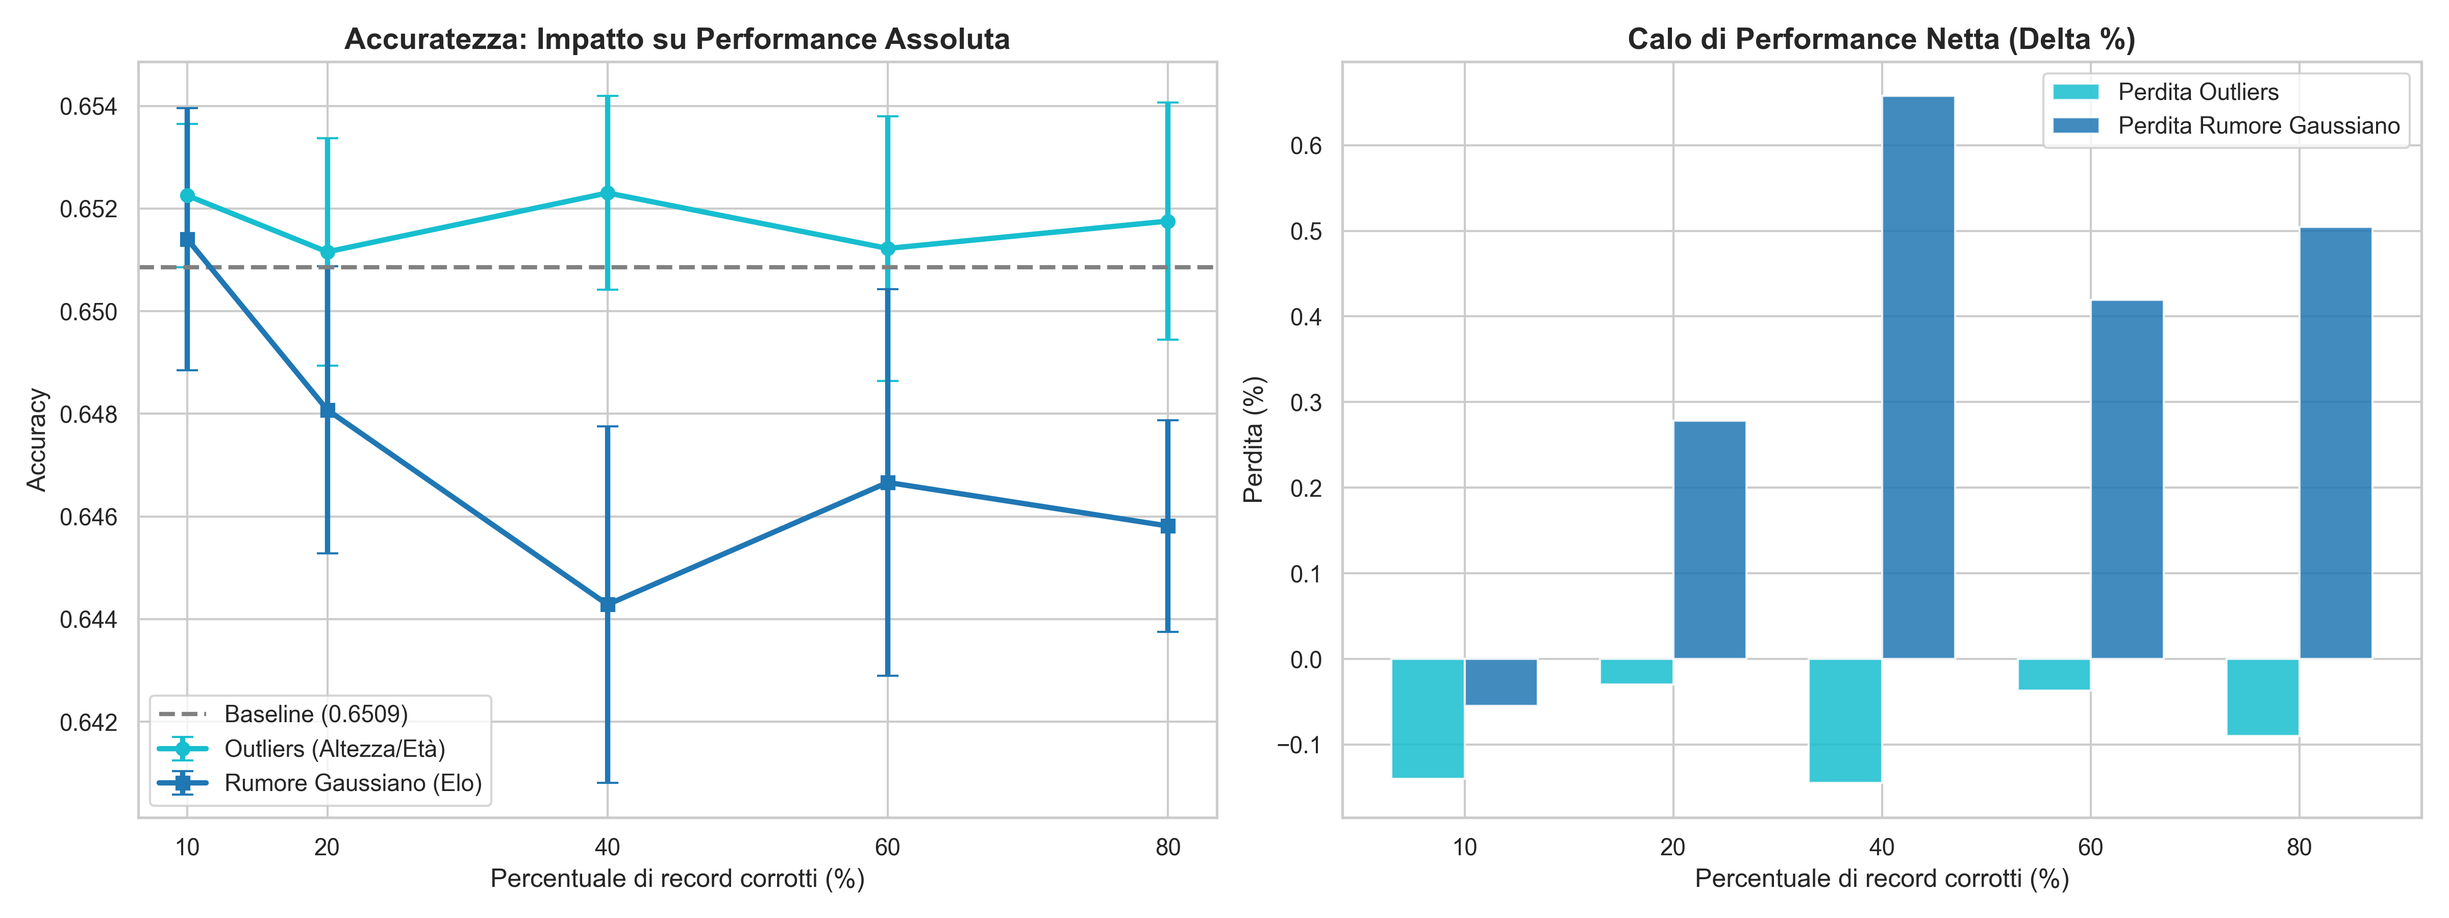
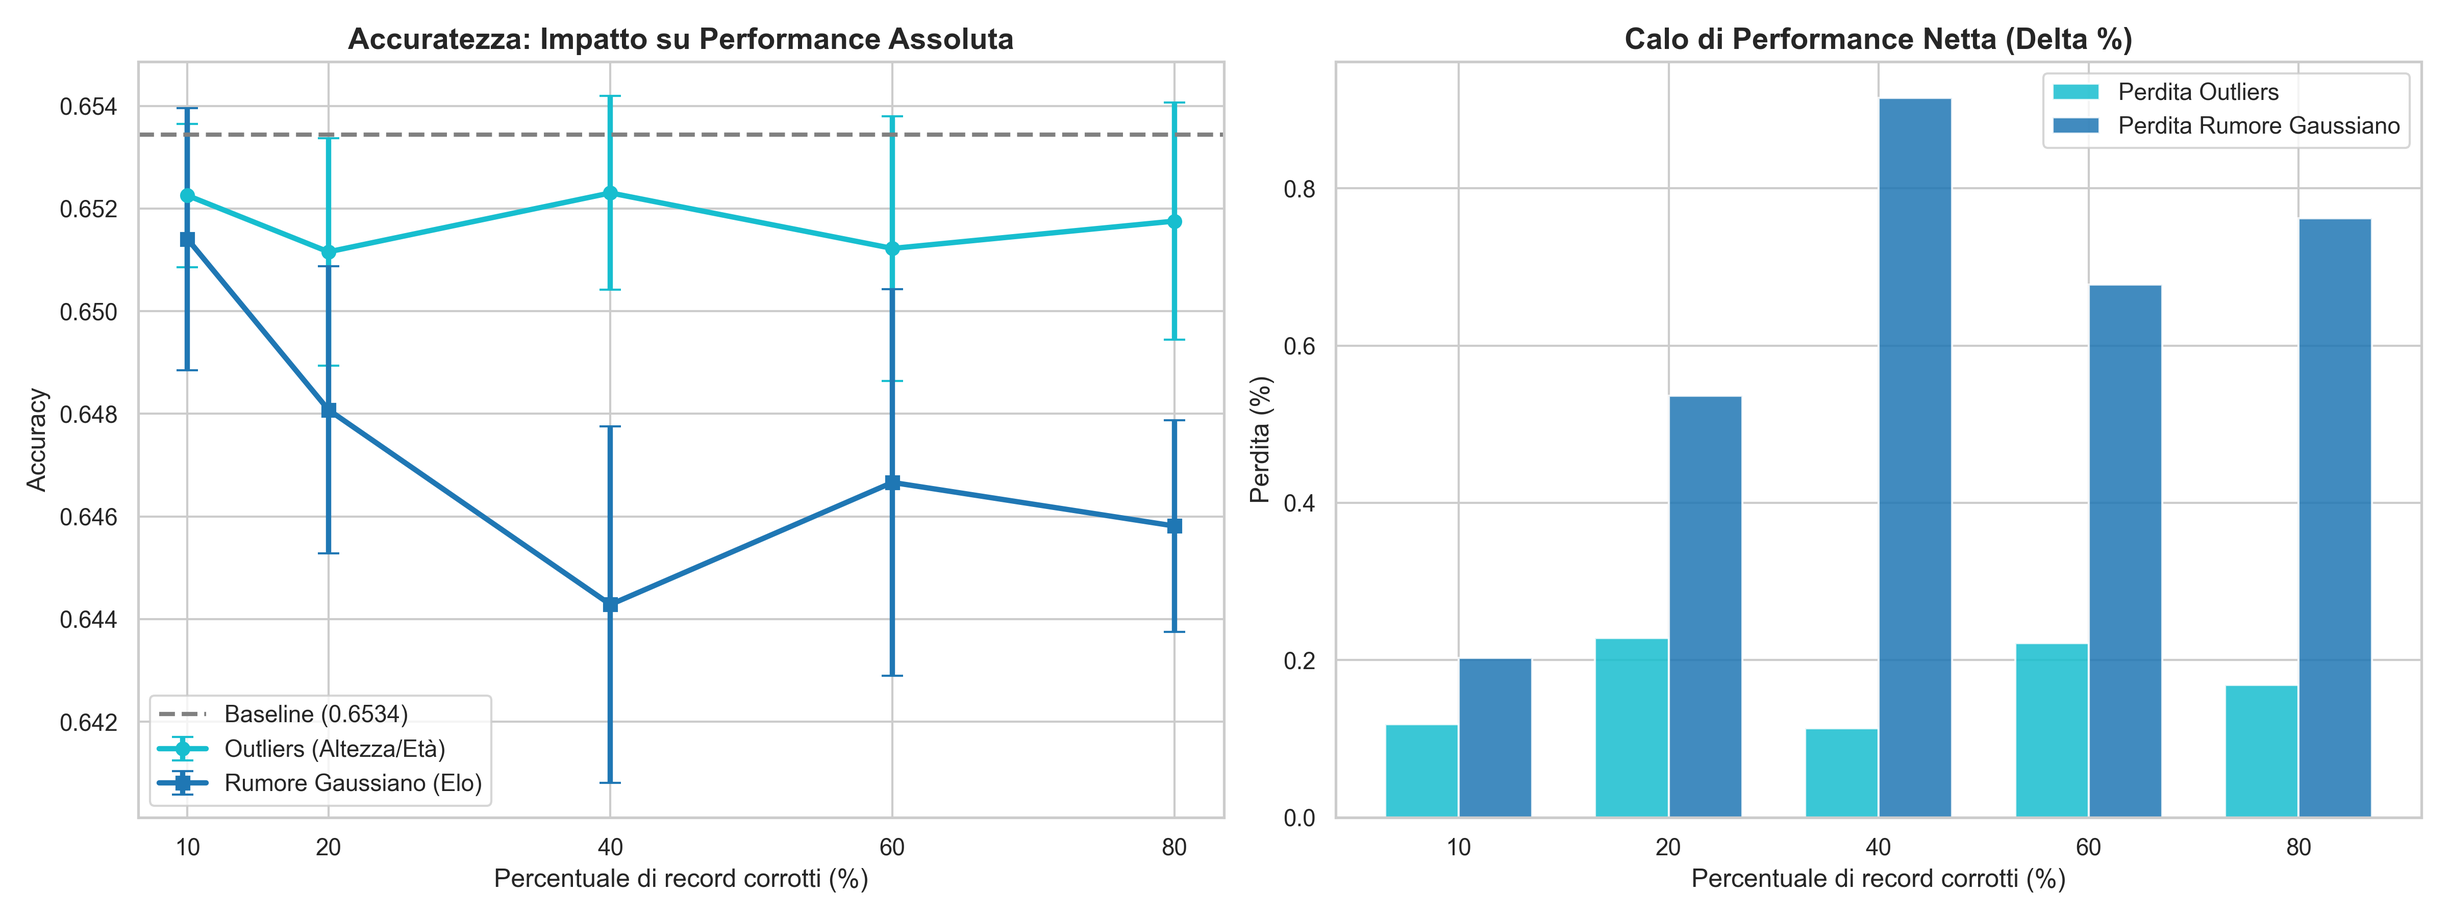
baseline 10 run + modifiche minori

diff --git a/src/baseline_data_quality.py b/src/baseline_data_quality.py
@@ -5,10 +5,8 @@ import pandas as pd
 import numpy as np
 from sklearn.neural_network import MLPClassifier
 from sklearn.preprocessing import StandardScaler
-from sklearn.metrics import accuracy_score,confusion_matrix
+from sklearn.metrics import accuracy_score, confusion_matrix
 import warnings
-
-
 
 warnings.filterwarnings('ignore')
 
@@ -53,9 +51,9 @@ def train_and_evaluate_mlp(X_train, y_train, X_test, y_test, return_model=False)
     X_train_model = X_train[FEATURES] if 'p1_id' in X_train.columns else X_train
     X_test_model = X_test[FEATURES] if 'p1_id' in X_test.columns else X_test
     
-    scaler = StandardScaler()
     X_train_scaled = scaler.fit_transform(X_train_model)
     X_test_scaled = scaler.transform(X_test_model)
+    
     mlp = MLPClassifier(
         hidden_layer_sizes=(128, 128, 64, 32),
         activation='relu',
@@ -94,70 +92,88 @@ def train_and_evaluate_mlp(X_train, y_train, X_test, y_test, return_model=False)
         
     return metrics
 
-def get_or_compute_baseline(dataset_path):
+def get_or_compute_baseline(dataset_path, n_runs=10):
     """
-    Gestisce la persistenza della baseline su disco usando un file JSON.
-    Salva tutte le metriche avanzate (accuratezza, confidenza, tempi, CM, loss curve).
+    Gestisce la persistenza della baseline su disco usando un file JSON (salvato in 'results').
+    Esegue l'addestramento n_runs volte per calcolare una media robusta delle metriche.
     """
     base_dir = os.path.dirname(os.path.abspath(__file__))
-    cache_path = os.path.join(base_dir, "baseline_metrics.json")
+    results_dir = os.path.join(base_dir, "..", "results")
+    os.makedirs(results_dir, exist_ok=True)
+    
+    cache_path = os.path.join(results_dir, "baseline_metrics.json")
     
     if os.path.exists(cache_path):
         with open(cache_path, "r") as f:
             data = json.load(f)
         return data["accuracy"]
     
-    print("Calcolo della Baseline e salvataggio delle metriche di addestramento...")
+    print(f"Calcolo della Baseline su {n_runs} run indipendenti per stabilità statistica...")
     X_train, y_train, X_test, y_test = get_train_test_split(dataset_path)
     
-    # ESTRAIAMO I DATI DAL DIZIONARIO
-    metrics = train_and_evaluate_mlp(X_train, y_train, X_test, y_test, return_model=True)
-    mlp = metrics['mlp']
+    runs_data = []
     
-    # Struttura dei metadati da salvare COMPLETA
+    # Eseguiamo n_runs per fare la media
+    for i in range(n_runs):
+        print(f"  -> Esecuzione run {i+1}/{n_runs}...")
+        metrics = train_and_evaluate_mlp(X_train, y_train, X_test, y_test, return_model=True)
+        runs_data.append(metrics)
+        
+    # Estraiamo le metriche per fare la media
+    acc_tests = [r['acc_test'] for r in runs_data]
+    acc_trains = [r['acc_train'] for r in runs_data]
+    confidenze = [r['confidenza'] for r in runs_data]
+    tempi = [r['time'] for r in runs_data]
+    
+    mean_acc = np.mean(acc_tests)
+    
+    # Troviamo la run "Mediana" (quella più vicina alla media calcolata) 
+    # per prelevare la matrice di confusione e la loss curve più rappresentative
+    closest_idx = np.argmin(np.abs(np.array(acc_tests) - mean_acc))
+    representative_run = runs_data[closest_idx]
+    representative_mlp = representative_run['mlp']
+    
+    # Struttura dei metadati mediati da salvare
     cache_data = {
-        "accuracy": metrics['acc_test'],
-        "acc_train": metrics['acc_train'],
-        "confidenza": metrics['confidenza'],
-        "time": metrics['time'],
-        "cm": metrics['cm'],
-        "n_iter": int(mlp.n_iter_),
-        "loss_curve": [float(x) for x in mlp.loss_curve_]
+        "accuracy": float(mean_acc),
+        "acc_train": float(np.mean(acc_trains)),
+        "confidenza": float(np.mean(confidenze)),
+        "time": float(np.mean(tempi)),
+        "cm": representative_run['cm'],
+        "n_iter": int(representative_mlp.n_iter_),
+        "loss_curve": [float(x) for x in representative_mlp.loss_curve_]
     }
     
-    # Salviamo il file JSON
+    # Salviamo il file JSON nella cartella results
     with open(cache_path, "w") as f:
         json.dump(cache_data, f, indent=4)
         
-    return metrics['acc_test']
-
+    print(f"Baseline calcolata e salvata con successo in: {cache_path}")
+    return cache_data['accuracy']
 
 def load_baseline_cache():
     """
-    Funzione helper per caricare l'intero dizionario delle metriche salvate in cache.
+    Funzione helper per caricare l'intero dizionario delle metriche salvate in cache dalla cartella results.
     """
     base_dir = os.path.dirname(os.path.abspath(__file__))
-    cache_path = os.path.join(base_dir, "baseline_metrics.json")
+    cache_path = os.path.join(base_dir, "..", "results", "baseline_metrics.json")
     
     if os.path.exists(cache_path):
         with open(cache_path, "r") as f:
             return json.load(f)
     return None
 
-
-
 # ESECUZIONE PRINCIPALE
-
 if __name__ == "__main__":
     print("-- INIZIO PIPELINE DATA QUALITY --")
     
     # Calcolo dinamico del path rispetto alla posizione dello script (cartella 'src')
     base_folder = os.path.dirname(os.path.abspath(__file__))
-    dataset_path = os.path.join(base_folder, "..", "data","clean", "dataset_ml_ready.csv") 
+    dataset_path = os.path.join(base_folder, "..", "data", "clean", "dataset_ml_ready.csv") 
     
     try:
         baseline_acc = get_or_compute_baseline(dataset_path)
-        print(f"\nAccuracy Baseline = {baseline_acc:.4f}")
+        print(f"\nAccuracy Media Baseline = {baseline_acc:.4f}")
         
     except FileNotFoundError:
         print(f"\nERRORE: file {dataset_path} non trovato")

diff --git a/src/plot_completezza.py b/src/plot_completezza.py
@@ -14,7 +14,7 @@ plots_dir = os.path.join(results_dir, "plots")
 os.makedirs(plots_dir, exist_ok=True) 
 
 path_json = os.path.join(results_dir, "risultati_completezza.json")
-path_json_base = os.path.join(src_dir, "baseline_metrics.json")
+path_json_base = os.path.join(results_dir, "baseline_metrics.json")
 
 if not os.path.exists(path_json):
     print(f"[ERRORE] File dei dati non trovato in: {path_json}")
@@ -35,12 +35,13 @@ with open(path_json, "r") as f:
 with open(path_json_base, "r") as f:
     dati_base = json.load(f)
 
-baseline_acc = dati["baseline_acc"]
+baseline_acc = dati_base["accuracy"]
 cm_baseline = dati_base["cm"] # Matrice di confusione base (0%)
-
+baseline_conf = dati_base["confidenza"] * 100
 percentuali = dati["percentuali"]
 perc_labels = [int(p * 100) for p in percentuali]
 risultati = dati["risultati"]
+baseline_time = dati_base["time"]
 
 sns.set_theme(style="whitegrid")
 
@@ -50,7 +51,7 @@ sns.set_theme(style="whitegrid")
 fig1, axes1 = plt.subplots(1, 2, figsize=(16, 6))
 
 axes1[0].errorbar(perc_labels, risultati['Systemic_Missing']['media'], yerr=risultati['Systemic_Missing']['std'], fmt='-o', label='Blackout (Completezza)', color='#d62728', capsize=5, linewidth=2.5)
-axes1[0].errorbar(perc_labels, risultati['Lag_10']['media'], yerr=risultati['Lag_10']['std'], fmt='-s', label='Lag-25 (Tempestività)', color='#ff7f0e', capsize=5, linewidth=2.5)
+axes1[0].errorbar(perc_labels, risultati['Lag_10']['media'], yerr=risultati['Lag_10']['std'], fmt='-s', label='Lag-10 (Tempestività)', color='#ff7f0e', capsize=5, linewidth=2.5)
 axes1[0].axhline(y=baseline_acc, color='gray', linestyle='--', linewidth=2, label=f'Baseline ({baseline_acc:.4f})')
 axes1[0].set_title('Completezza e Tempestività', fontsize=14, fontweight='bold')
 axes1[0].set_xlabel('Percentuale di record corrotti (%)')
@@ -64,7 +65,7 @@ x = np.arange(len(perc_labels))
 width = 0.35
 
 axes1[1].bar(x - width/2, delta_missing, width, label='Perdita Blackout', color='#d62728', alpha=0.85)
-axes1[1].bar(x + width/2, delta_lag, width, label='Perdita Lag-25', color='#ff7f0e', alpha=0.85)
+axes1[1].bar(x + width/2, delta_lag, width, label='Perdita Lag-10', color='#ff7f0e', alpha=0.85)
 axes1[1].set_title("Calo di Performance Netta (Delta %)", fontsize=14, fontweight='bold')
 axes1[1].set_xlabel('Percentuale di record corrotti (%)')
 axes1[1].set_ylabel('Perdita (%)')
@@ -85,7 +86,7 @@ plt.plot(perc_labels, risultati['Systemic_Missing']['media_train'], label='Train
 plt.plot(perc_labels, risultati['Systemic_Missing']['media'], label='Test (Blackout)', color='#d62728', marker='s', linewidth=2.5)
 plt.fill_between(perc_labels, risultati['Systemic_Missing']['media'], risultati['Systemic_Missing']['media_train'], color='#d62728', alpha=0.15)
 
-# Lag-25
+# Lag-10
 plt.plot(perc_labels, risultati['Lag_10']['media_train'], label='Train (Lag-10)', color='#ffbb78', marker='^', linewidth=2.5, linestyle='--')
 plt.plot(perc_labels, risultati['Lag_10']['media'], label='Test (Lag-10)', color='#ff7f0e', marker='D', linewidth=2.5)
 plt.fill_between(perc_labels, risultati['Lag_10']['media'], risultati['Lag_10']['media_train'], color='#ff7f0e', alpha=0.15)
@@ -102,7 +103,7 @@ plt.savefig(os.path.join(plots_dir, "completezza_02_train_test_gap.png"), dpi=30
 plt.figure(figsize=(10, 5))
 plt.plot(perc_labels, [c * 100 for c in risultati['Systemic_Missing']['confidenza']], label='Blackout', color='#d62728', marker='o', linewidth=2.5)
 plt.plot(perc_labels, [c * 100 for c in risultati['Lag_10']['confidenza']], label='Lag-10', color='#ff7f0e', marker='s', linewidth=2.5)
-plt.axhline(y=70.0, color='gray', linestyle='--', label='Soglia Teorica di Rischio (70%)')
+plt.axhline(y=baseline_conf, color='gray', linestyle='--', label=f'Baseline ({baseline_conf:.2f}%)')
 
 plt.title('Il Crollo delle Certezze: Confidenza Predittiva', fontsize=14, fontweight='bold')
 plt.xlabel('Percentuale di record corrotti (%)')
@@ -116,7 +117,7 @@ plt.savefig(os.path.join(plots_dir, "completezza_03_confidenza.png"), dpi=300)
 plt.figure(figsize=(10, 5))
 plt.plot(perc_labels, risultati['Systemic_Missing']['tempi'], label='Blackout', color='#d62728', marker='o', linewidth=2.5)
 plt.plot(perc_labels, risultati['Lag_10']['tempi'], label='Lag-10', color='#ff7f0e', marker='s', linewidth=2.5)
-
+plt.axhline(y=baseline_time, color='gray', linestyle='--', linewidth=2, label=f'Baseline ({baseline_time:.1f} s)')
 plt.title('Impatto Computazionale: Tempi di Addestramento', fontsize=14, fontweight='bold')
 plt.xlabel('Percentuale di record corrotti (%)')
 plt.ylabel('Tempo impiegato (secondi)')

diff --git a/src/analisi_feature.py b/src/analisi_feature.py
@@ -18,9 +18,7 @@ def calcola_e_plotta_evoluzione(esperimento_nome, prefisso_file, test_clean_X, t
     Legge i CSV sporchi di un esperimento, calcola la Feature Importance 
     per ogni step e genera un grafico a griglia dell'evoluzione dei pesi decisionali.
     """
-    print(f"\n{'='*60}")
-    print(f"🚀 AVVIO ANALISI FEATURE IMPORTANCE: {esperimento_nome}")
-    print(f"{'='*60}")
+    print(f"AVVIO ANALISI FEATURE IMPORTANCE: {esperimento_nome}")
     
     # Setup percorsi
     base_folder = os.path.dirname(os.path.abspath(__file__))
@@ -33,7 +31,7 @@ def calcola_e_plotta_evoluzione(esperimento_nome, prefisso_file, test_clean_X, t
     importanza_per_step = {}
     
     # -------------------------------------
-    # 1. TOP 8 DELLA BASELINE
+    # 1. TOP 8 DELLA BASELINE (DEGRADO 0%)
     # -------------------------------------
     clean_csv = os.path.join(base_folder, "..", "data", "clean", "dataset_ml_ready.csv")
     X_train_clean, y_train_clean, _, _ = get_train_test_split(clean_csv)
@@ -46,8 +44,9 @@ def calcola_e_plotta_evoluzione(esperimento_nome, prefisso_file, test_clean_X, t
     X_test_scaled = scaler_clean.transform(test_clean_X)
     
     print("[1/3] Addestramento Baseline Sana...")
+    # AGGIUNTO RANDOM_STATE=42 per isolare l'effetto del degrado
     mlp_clean = MLPClassifier(hidden_layer_sizes=(128, 128, 64, 32), activation='relu', 
-                              alpha=0.01, max_iter=150, early_stopping=True)
+                              alpha=0.01, max_iter=150, early_stopping=True, random_state=42)
     mlp_clean.fit(X_train_scaled, y_train_clean)
     
     print("[2/3] Estrazione pesi decisionali (Permutation Importance)...")
@@ -57,6 +56,9 @@ def calcola_e_plotta_evoluzione(esperimento_nome, prefisso_file, test_clean_X, t
     # Fissiamo le 8 feature più importanti del modello sano per il confronto
     top_features = df_clean.sort_values(by='Importanza', ascending=False).head(8)['Feature'].tolist()
     max_importanza_assoluta = df_clean['Importanza'].max()
+    
+    # INSERIAMO LA BASELINE COME PRIMO GRAFICO (0%)
+    importanza_per_step["0"] = df_clean[df_clean['Feature'].isin(top_features)]
     
     # ---------------------------------------------------------
     # 2. CICLO SUI DATASET SPORCHI
@@ -85,8 +87,9 @@ def calcola_e_plotta_evoluzione(esperimento_nome, prefisso_file, test_clean_X, t
         scaler_dirty = StandardScaler()
         X_train_dirty_scaled = scaler_dirty.fit_transform(X_dirty)
         
+        # AGGIUNTO RANDOM_STATE=42
         mlp_dirty = MLPClassifier(hidden_layer_sizes=(128, 128, 64, 32), activation='relu', 
-                                  alpha=0.01, max_iter=150, early_stopping=True)
+                                  alpha=0.01, max_iter=150, early_stopping=True, random_state=42)
         mlp_dirty.fit(X_train_dirty_scaled, y_dirty)
         
         # Testiamo l'importanza sulle feature della realtà (Dati PULITI)
@@ -99,11 +102,8 @@ def calcola_e_plotta_evoluzione(esperimento_nome, prefisso_file, test_clean_X, t
     # 3. GENERAZIONE GRAFICO A GRIGLIA
     # -----------------------------------
     if importanza_per_step:
-        num_plots = len(importanza_per_step)
-        cols = 3
-        rows = int(np.ceil(num_plots / cols))
-        
-        fig, axes = plt.subplots(rows, cols, figsize=(16, 5 * rows))
+        # Avendo aggiunto lo zero, ora i plot sono esattamente 6. Perfetto per 2 righe da 3 colonne!
+        fig, axes = plt.subplots(2, 3, figsize=(18, 10))
         axes = axes.flatten()
         
         for i, (p_str, df_plot) in enumerate(importanza_per_step.items()):
@@ -118,8 +118,12 @@ def calcola_e_plotta_evoluzione(esperimento_nome, prefisso_file, test_clean_X, t
             # Fissiamo l'asse X per rendere le barre comparabili visivamente tra i vari step
             axes[i].set_xlim(0, max_importanza_assoluta * 1.15) 
             
-        # Nasconde eventuali riquadri vuoti nella griglia
-        for j in range(i + 1, len(axes)):
+            # AGGIUNTA DELLA GRIGLIA VERTICALE (sotto le barre)
+            axes[i].set_axisbelow(True)
+            axes[i].xaxis.grid(True, linestyle='--', color='gray', alpha=0.7)
+            
+        # Nasconde eventuali riquadri vuoti (anche se con 6 grafici non ce ne saranno)
+        for j in range(len(importanza_per_step), len(axes)):
             fig.delaxes(axes[j])
             
         plt.suptitle(f'Evoluzione della Feature Importance\n{esperimento_nome}', fontsize=16, fontweight='bold', y=1.02)

diff --git a/src/plot_accuratezza.py b/src/plot_accuratezza.py
@@ -14,7 +14,7 @@ plots_dir = os.path.join(results_dir, "plots")
 os.makedirs(plots_dir, exist_ok=True) # Crea la cartella se non esiste
 
 path_json = os.path.join(results_dir, "risultati_accuratezza.json")
-path_json_base = os.path.join(src_dir, "baseline_metrics.json")
+path_json_base = os.path.join(results_dir, "baseline_metrics.json") # Assicurati che punti a results_dir
 
 if not os.path.exists(path_json):
     print(f"[ERRORE] File dei dati non trovato in: {path_json}")
@@ -35,7 +35,10 @@ with open(path_json, "r") as f:
 with open(path_json_base, "r") as f:
     dati_base = json.load(f)
 
-baseline_acc = dati["baseline_acc"]
+# PRELIEVO METRICHE MEDIATE DALLA BASELINE A 10 RUN
+baseline_acc = dati_base["accuracy"]
+baseline_conf = dati_base["confidenza"] * 100
+baseline_time = dati_base["time"]
 cm_baseline = dati_base["cm"] # Matrice di confusione base (0%)
 
 percentuali = dati["percentuali"]
@@ -102,7 +105,9 @@ plt.savefig(os.path.join(plots_dir, "accuratezza_02_train_test_gap.png"), dpi=30
 plt.figure(figsize=(10, 5))
 plt.plot(perc_labels, [c * 100 for c in risultati['Rumore_Gaussiano']['confidenza']], label='Rumore Gaussiano', color='purple', marker='o', linewidth=2.5)
 plt.plot(perc_labels, [c * 100 for c in risultati['Outliers']['confidenza']], label='Outliers', color='teal', marker='s', linewidth=2.5)
-plt.axhline(y=70.0, color='gray', linestyle='--', label='Soglia Teorica di Rischio (70%)')
+
+# LINEA DELLA BASELINE AL POSTO DEL 70% FISSO
+plt.axhline(y=baseline_conf, color='gray', linestyle='--', linewidth=2, label=f'Baseline ({baseline_conf:.1f}%)')
 
 plt.title('Il Crollo delle Certezze: Confidenza Predittiva', fontsize=14, fontweight='bold')
 plt.xlabel('Percentuale di record corrotti (%)')
@@ -116,6 +121,9 @@ plt.savefig(os.path.join(plots_dir, "accuratezza_03_confidenza.png"), dpi=300)
 plt.figure(figsize=(10, 5))
 plt.plot(perc_labels, risultati['Rumore_Gaussiano']['tempi'], label='Rumore Gaussiano', color='orange', marker='o', linewidth=2.5)
 plt.plot(perc_labels, risultati['Outliers']['tempi'], label='Outliers', color='blue', marker='s', linewidth=2.5)
+
+# LINEA DELLA BASELINE DEI TEMPI
+plt.axhline(y=baseline_time, color='gray', linestyle='--', linewidth=2, label=f'Baseline ({baseline_time:.1f} s)')
 
 plt.title('Impatto Computazionale: Tempi di Addestramento', fontsize=14, fontweight='bold')
 plt.xlabel('Percentuale di record corrotti (%)')
@@ -166,4 +174,4 @@ plot_matrici_confusione('Outliers', 'Outliers', 'Greens', "accuratezza_05_matric
 # Genera la griglia per Rumore Gaussiano (in blu)
 plot_matrici_confusione('Rumore_Gaussiano', 'Rumore Gaussiano', 'Blues', "accuratezza_06_matrici_gaussiano.png", cm_baseline)
 
-print(f"Tutti i grafici sono stati generati e salvati in: {plots_dir}")
+print(f"Tutti i grafici di Accuratezza sono stati generati e salvati in: {plots_dir}")

diff --git a/src/plot_coerenza.py b/src/plot_coerenza.py
@@ -14,7 +14,7 @@ plots_dir = os.path.join(results_dir, "plots")
 os.makedirs(plots_dir, exist_ok=True) # Crea la cartella se non esiste
 
 path_json = os.path.join(results_dir, "risultati_coerenza.json")
-path_json_base = os.path.join(src_dir, "baseline_metrics.json")
+path_json_base = os.path.join(results_dir, "baseline_metrics.json") # Modificato verso results_dir
 
 if not os.path.exists(path_json):
     print(f"[ERRORE] File dei dati non trovato in: {path_json}")
@@ -35,7 +35,10 @@ with open(path_json, "r") as f:
 with open(path_json_base, "r") as f:
     dati_base = json.load(f)
 
-baseline_acc = dati["baseline_acc"]
+# PRELIEVO METRICHE MEDIATE DALLA BASELINE A 10 RUN
+baseline_acc = dati_base["accuracy"]
+baseline_conf = dati_base["confidenza"] * 100
+baseline_time = dati_base["time"]
 cm_baseline = dati_base["cm"] # Matrice di confusione base (0%)
 
 percentuali = dati["percentuali"]
@@ -100,7 +103,9 @@ plt.savefig(os.path.join(plots_dir, "coerenza_02_train_test_gap.png"), dpi=300)
 plt.figure(figsize=(10, 5))
 plt.plot(perc_labels, [c * 100 for c in risultati['Target_Flipping']['confidenza']], label='Target Flipping', color='purple', marker='o', linewidth=2.5)
 plt.plot(perc_labels, [c * 100 for c in risultati['Elo_Ranking']['confidenza']], label='Elo vs Ranking', color='teal', marker='s', linewidth=2.5)
-plt.axhline(y=70.0, color='gray', linestyle='--', label='Soglia Teorica di Rischio (70%)')
+
+# LINEA DELLA BASELINE AL POSTO DEL 70% FISSO
+plt.axhline(y=baseline_conf, color='gray', linestyle='--', linewidth=2, label=f'Baseline ({baseline_conf:.1f}%)')
 
 plt.title('Il Crollo delle Certezze: Confidenza Predittiva', fontsize=14, fontweight='bold')
 plt.xlabel('Percentuale di record incoerenti (%)')
@@ -114,6 +119,9 @@ plt.savefig(os.path.join(plots_dir, "coerenza_03_confidenza.png"), dpi=300)
 plt.figure(figsize=(10, 5))
 plt.plot(perc_labels, risultati['Target_Flipping']['tempi'], label='Target Flipping', color='orange', marker='o', linewidth=2.5)
 plt.plot(perc_labels, risultati['Elo_Ranking']['tempi'], label='Elo vs Ranking', color='blue', marker='s', linewidth=2.5)
+
+# LINEA DELLA BASELINE DEI TEMPI
+plt.axhline(y=baseline_time, color='gray', linestyle='--', linewidth=2, label=f'Baseline ({baseline_time:.1f} s)')
 
 plt.title('Impatto Computazionale: Tempi di Addestramento', fontsize=14, fontweight='bold')
 plt.xlabel('Percentuale di record incoerenti (%)')
@@ -164,4 +172,4 @@ plot_matrici_confusione('Target_Flipping', 'Target Flipping', 'Reds', "coerenza_
 # Genera la griglia per Elo Ranking (in blu)
 plot_matrici_confusione('Elo_Ranking', 'Elo vs Ranking', 'Blues', "coerenza_06_matrici_elo.png", cm_baseline)
 
-print(f"Tutti i grafici sono stati generati e salvati in: {plots_dir}")
+print(f"Tutti i grafici di Coerenza sono stati generati e salvati in: {plots_dir}")
